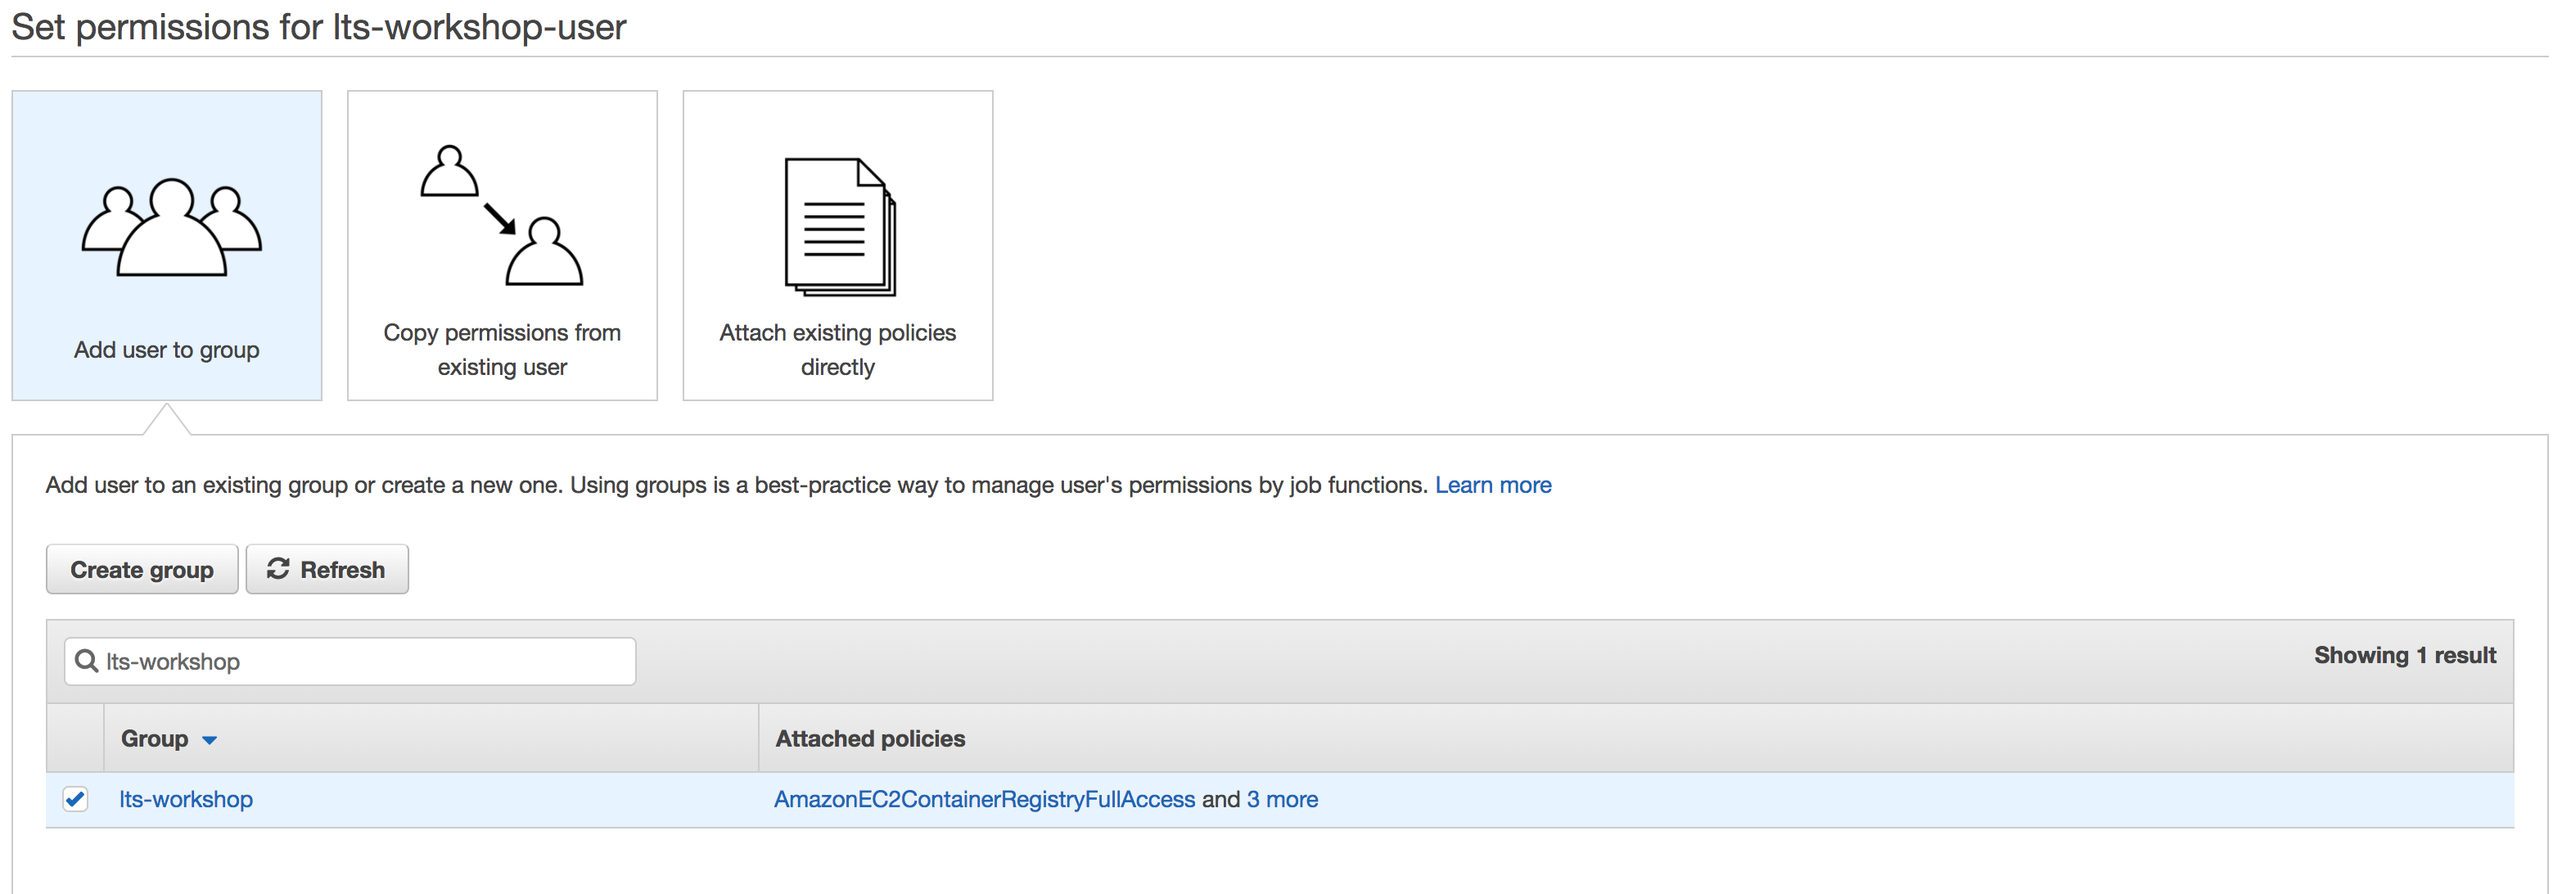
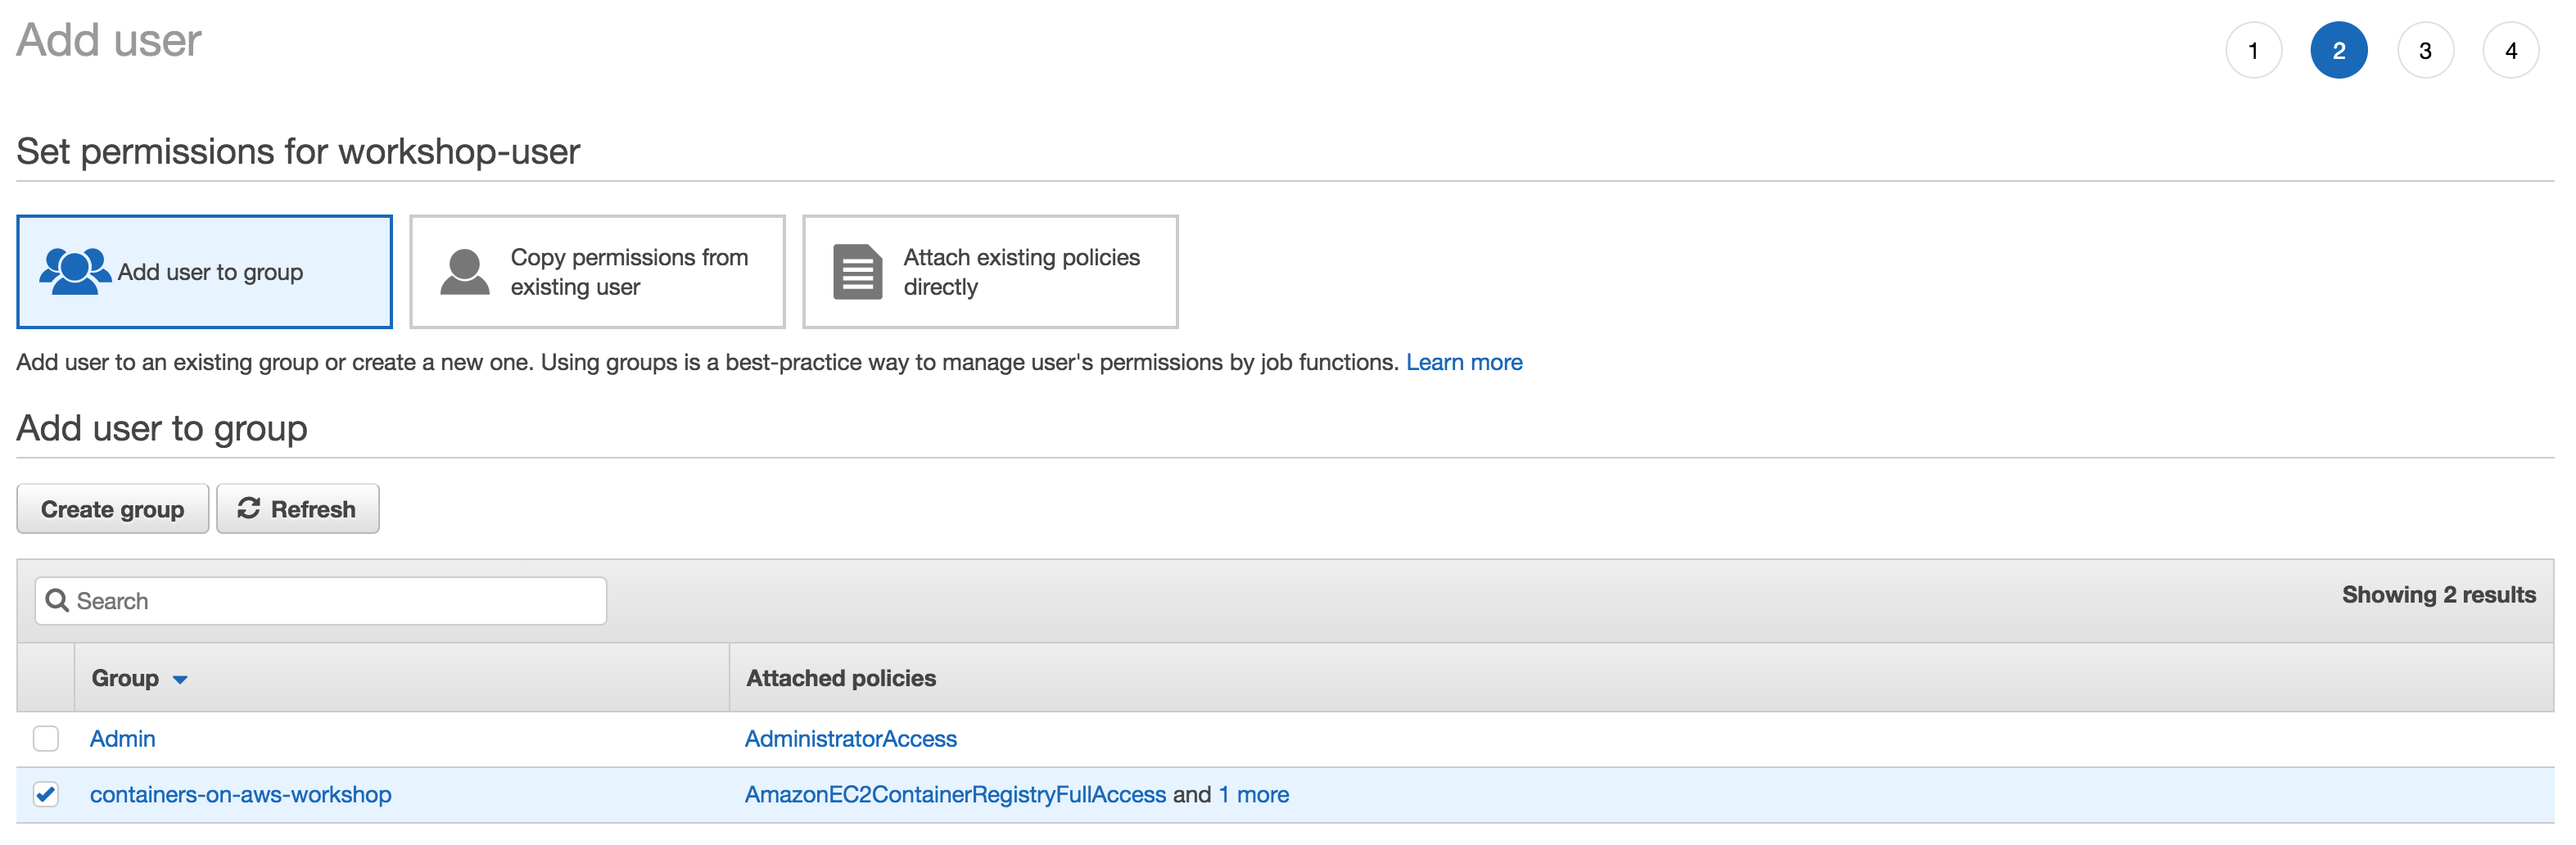
Adding content

diff --git a/02-CreatingDockerImage/README.md b/02-CreatingDockerImage/README.md
@@ -109,20 +109,35 @@ In order to work with the AWS CLI, you'll need an IAM role with the proper permi
 
 To create the group, navigate to the IAM console, and select **Groups** > **Create New Group**.  Name the group "**containers-on-aws-workshop**".  From the list of managed policies, add the following policies:
 
+
+* AmazonEC2ContainerRegistryFullAccess
+* AmazonEC2ContainerServiceFullAccess
+
+This is how your group permissions should like after the creation:
+
 ![add IAM group](https://github.com/bemer/containers-on-aws-workshop/blob/master/02-CreatingDockerImage/images/iam-group-permissions.png)
 
-Once you've created your group, you need to attach it to a user.  If you already have an existing user, you can add it to the lts-workshop group.  If you don't have a user, or need to create a new one, you can do so by going to **Users** > **Add User**.
+Once you've created your group, you need to create a new user and attach this new user to this group. In order to do so, on the IAM console, click in **Users** on the left side of the screen, and them click in the button **Add user**.
 
-If you are creating a new user, name it to something like "**lts-workshop-user**", so it is going to be easy delete all the assets used in this lab later. In the wizard, add your user to the "**lts-workshop**" group that we created in the previous step:
+The user name will be **workshop-user**. Don't forget to select the **Programmatic access** and the **AWS Management Console access** in the `Access type` just like in the following picture:
+
+![creating user](https://github.com/bemer/containers-on-aws-workshop/blob/master/02-CreatingDockerImage/images/creating_user.png)
+
+Now, click in **Next: permissions** and in the **Add user to group** screen, select the group **containers-on-aws-workshop** that we created before:
 
 ![add user to group](https://github.com/bemer/containers-on-aws-workshop/blob/master/02-CreatingDockerImage/images/add_user_to_group.png)
 
+Click in **Next: Review** and check if is everything fine with your user creation. The screen should be similar to this one:
+
+![review user creation](https://github.com/bemer/containers-on-aws-workshop/blob/master/02-CreatingDockerImage/images/review_user_creation.png)
+
+In this screen, click in **Create user**.
 
 When the wizard finishes, make sure to copy or download your access key and secret key.  You'll need them in the next step.
 
 ## 4. Configuring the AWS CLI
 
-If you've never configured the AWS CLI, the easiest way is by running:
+If you've never configured the AWS CLI, the easiest way is by running the command:
 
     $ aws configure
 

diff --git a/01-SetupEnvironment/README.md b/01-SetupEnvironment/README.md
@@ -66,13 +66,12 @@ The output should look like:
      https://docs.docker.com/engine/userguide/
 
 
-## Install and configure AWS CLI
+## Install AWS CLI
 
 During this workshop we will interact with some AWS API's. Having the latest version of the AWS CLI in your computer is appropriated.
 
 Instructions to install the AWS CLI are available here: http://docs.aws.amazon.com/cli/latest/userguide/installing.html
 
-After installing the AWS CLI, please don't forget to configure it. You will find all the steps in this URL: https://docs.aws.amazon.com/cli/latest/userguide/cli-chap-getting-started.html#cli-quick-configuration
 
 ## Install git
 
